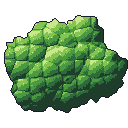
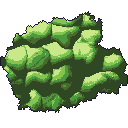
feat(art): trees closer to the reference - clumped lit crowns in the lime band, thick flared trunks, bark-brown dead tree, a soft shade under each crown
Claude-Session: https://claude.ai/code/session_01PpsERw8VWrE9zZzVHKNAoh

diff --git a/tools/src/art/trees.ts b/tools/src/art/trees.ts
@@ -21,8 +21,8 @@ export const CHARACTER_PX = 73;
 
 const GREEN = rampOf(['#15301f', '#1f3d2b', '#2e6b3b', '#4c9a3f', '#84c450', '#c8e88a']);
 const BARK = rampOf(['#1f1210', '#3f1e17', '#5e2e20', '#7f452a', '#a3633a', '#cc8e55']);
-/** Dead wood: the ink, the purple greys, and one pale step for the bleached side. */
-const DEAD = rampOf(['#1b1a2e', '#3a3554', '#3a3554', '#5d6177', '#5d6177', '#8f94a8']);
+/** Dead wood: the bark ramp itself, drawn dark (a bare tree is the oak's own wood without its leaves). */
+const DEAD = BARK;
 const PLUM = rampOf(['#241238', '#43204a', '#5b3373', '#7c4593', '#9a5bb0', '#c28bc9']);
 
 export interface TreeDraw {
@@ -82,14 +82,15 @@ function oak(frame: number): PNG {
   const W = 192;
   const H = 320;
   const png = surface(W, H);
+  // a thick, warm trunk that flares into four roots spreading over the ground, two boughs reaching into the crown
   drawTubes(png, [
-    ...trunk([[96, 316, 21], [96, 292, 18], [96, 250, 15], [97, 215, 13], [98, 190, 12]], [[62, 318, 4.5], [132, 318, 4.5]]),
-    { x0: 98, y0: 214, r0: 9, x1: 62, y1: 168, r1: 6 },
-    { x0: 98, y0: 210, r0: 9, x1: 136, y1: 170, r1: 6 },
-  ], { seed: 301, ramp: BARK, tone: -0.35, grain: 1.0 });
-  const box = { oy: 56, h: 188 };
-  const lobes = swayed(crownLobes(31, W, box.h, 96, 94, 70, 62, [[0.55, 8, 33], [1, 15, 29]], 40), box.h, frame, 2.5);
-  drawMass(png, { ox: 0, oy: box.oy, w: W, h: box.h, seed: 31, lobes, ramp: GREEN, clump: 20, shift: [frame * 3, frame * 2] });
+    ...trunk([[96, 316, 29], [96, 296, 25], [96, 262, 21], [97, 228, 19], [98, 196, 17]], [[26, 318, 6], [60, 319, 6.5], [132, 319, 6.5], [166, 318, 6]]),
+    { x0: 98, y0: 222, r0: 12, x1: 56, y1: 170, r1: 7 },
+    { x0: 98, y0: 218, r0: 12, x1: 142, y1: 168, r1: 7 },
+  ], { seed: 301, ramp: BARK, tone: 0.1, grain: 1.0 });
+  const box = { oy: 52, h: 180 };
+  const lobes = swayed(crownLobes(31, W, box.h, 96, 86, 80, 52, [[0.6, 9, 29], [1, 13, 25]], 38), box.h, frame, 2.5);
+  drawMass(png, { ox: 0, oy: box.oy, w: W, h: box.h, seed: 31, lobes, ramp: GREEN, clump: 34, tone: 0.85, shift: [frame * 3, frame * 2] });
   return finish(png);
 }
 
@@ -128,7 +129,7 @@ function deadTree(frame: number): PNG {
   add(96, 252, -0.04, 80, 21, 0, 1);
   // the roots grip the ground
   const roots: Tube[] = trunk([[96, 252, 21]], [[58, 254, 4], [134, 254, 4]]);
-  drawTubes(png, [...tubes, ...roots], { seed: 401, ramp: DEAD, tone: -0.8, grain: 1.2 });
+  drawTubes(png, [...tubes, ...roots], { seed: 401, ramp: DEAD, tone: -0.55, grain: 1.2 });
   return finish(png);
 }
 
@@ -136,10 +137,10 @@ function youngTree(): PNG {
   const W = 128;
   const H = 192;
   const png = surface(W, H);
-  drawTubes(png, trunk([[64, 190, 12], [64, 170, 10], [64, 140, 8], [65, 112, 7]], [[46, 191, 3.5], [82, 191, 3.5]]), { seed: 501, ramp: BARK, tone: -0.3, grain: 0.9 });
+  drawTubes(png, trunk([[64, 190, 19], [64, 172, 15], [64, 140, 12], [65, 112, 10]], [[28, 191, 4.5], [46, 192, 4.5], [82, 192, 4.5], [100, 191, 4.5]]), { seed: 501, ramp: BARK, tone: 0.1, grain: 0.9 });
   const box = { oy: 20, h: 124 };
-  const lobes = crownLobes(52, W, box.h, 64, 62, 38, 34, [[0.55, 6, 24], [1, 9, 20]], 28);
-  drawMass(png, { ox: 0, oy: box.oy, w: W, h: box.h, seed: 52, lobes, ramp: GREEN, clump: 15 });
+  const lobes = crownLobes(52, W, box.h, 64, 62, 42, 36, [[0.6, 6, 20], [1, 10, 18]], 26);
+  drawMass(png, { ox: 0, oy: box.oy, w: W, h: box.h, seed: 52, lobes, ramp: GREEN, clump: 26, tone: 1.3 });
   return finish(png);
 }
 
@@ -170,10 +171,10 @@ function fig(frame: number, fruit: boolean): PNG {
   const W = 128;
   const H = 256;
   const png = surface(W, H);
-  drawTubes(png, trunk([[63, 254, 10], [64, 232, 8], [66, 205, 6], [65, 180, 5]], [[42, 255, 3.5], [86, 255, 3.5]]), { seed: 701, ramp: BARK, tone: -0.2, grain: 0.9 });
+  drawTubes(png, trunk([[63, 254, 17], [64, 232, 13], [66, 205, 10], [65, 180, 8]], [[28, 255, 4.5], [44, 256, 4.5], [84, 256, 4.5], [100, 255, 4.5]]), { seed: 701, ramp: BARK, tone: 0.1, grain: 0.9 });
   const box = { oy: 16, h: 190 };
   const lobes = swayed(crownLobes(71, W, box.h, 64, 100, 38, 76, [[0.5, 7, 27], [1, 11, 23]], 32), box.h, frame, 1.6);
-  const mask = drawMass(png, { ox: 0, oy: box.oy, w: W, h: box.h, seed: 71, lobes, ramp: GREEN, clump: 22, tone: 0.15, glints: 0.6, shift: [frame * 3, frame * 2] });
+  const mask = drawMass(png, { ox: 0, oy: box.oy, w: W, h: box.h, seed: 71, lobes, ramp: GREEN, clump: 28, tone: 1.3, glints: 0.6, shift: [frame * 3, frame * 2] });
   if (fruit) {
     // figs: small plum drops on the crown's face, each with a lit upper left and a dark under edge
     let placed = 0;
@@ -222,7 +223,7 @@ function sheet(frames: readonly PNG[]): PNG {
 
 export const TREES: readonly TreeDraw[] = [
   { id: 'props/tree_oak', kit: 'core', w: 192, h: 320, frames: 2, ramps: ['green', 'bark'], what: 'an oak at 64 px, three characters tall: a bark trunk with roots under a wide crown of lit lobes and leaf clumps, swaying a pixel in its second frame', draw: oak },
-  { id: 'props/dead_tree', kit: 'core', w: 192, h: 256, frames: 2, ramps: ['grey', 'bark'], what: 'a dead tree at 64 px, two and a half characters tall: a twisting trunk forking into bare limbs, bark roots at its foot, the limbs swaying a pixel in its second frame', draw: deadTree },
+  { id: 'props/dead_tree', kit: 'core', w: 192, h: 256, frames: 2, ramps: ['bark'], what: 'a dead tree at 64 px, two and a half characters tall: a twisting trunk forking into bare limbs, bark roots at its foot, the limbs swaying a pixel in its second frame', draw: deadTree },
   { id: 'props/young_tree', kit: 'core', w: 128, h: 192, frames: 1, ramps: ['green', 'bark'], what: 'a young tree at 64 px, two characters tall: a slim bark trunk under a rounded crown of lit lobes', draw: youngTree },
   { id: 'props/sapling', kit: 'core', w: 64, h: 96, frames: 1, ramps: ['green', 'bark'], what: 'a sapling at 64 px, a person tall: a thin curved stem with a few small leaf clusters', declareScale: false, draw: sapling },
   { id: 'props/fig_bush', kit: 'ceosisrael', w: 128, h: 256, frames: 2, ramps: ['green', 'plum', 'bark'], what: 'the glade fig held as a tree, three characters tall: a slender trunk under a tall crown of big leaves with plum figs', draw: (f) => fig(f, true) },

diff --git a/tools/src/art/foliage.ts b/tools/src/art/foliage.ts
@@ -75,6 +75,8 @@ export interface MassOptions {
   tone?: number;
   /** How bright the glints on lit clumps are, 0 none. */
   glints?: number;
+  /** How hard the light and shade of each clump pull from the middle step: 1 as the trees, more for a mass that reads dark with lit tops. */
+  contrast?: number;
 }
 
 /**
@@ -89,8 +91,8 @@ export function drawMass(png: PNG, o: MassOptions): Uint8Array {
   const top = new Int16Array(w * h);
   for (let y = 0; y < h; y += 1) {
     for (let x = 0; x < w; x += 1) {
-      // a scalloped edge: the distance to a lobe is nudged by noise, so the silhouette is leafy, not a circle
-      const wob = (noise(seed + 5, x, y, 6) - 0.5) * 7;
+      // a ragged edge: the distance to a lobe is nudged by noise at three sizes, so the silhouette is leaf clumps with notches, not a circle
+      const wob = (noise(seed + 5, x, y, 9) - 0.5) * 9 + (noise(seed + 6, x, y, 4) - 0.5) * 5 + (hash3(seed + 10, x, y) - 0.5) * 2.2;
       let best = -1;
       let owner = 0;
       for (const [n, l] of lobes.entries()) {
@@ -115,6 +117,7 @@ export function drawMass(png: PNG, o: MassOptions): Uint8Array {
   const [sx, sy] = o.shift ?? [0, 0];
   const tone = o.tone ?? 0;
   const glints = o.glints ?? 1;
+  const contrast = o.contrast ?? 1;
   const clumpSize = o.clump;
   for (let y = 0; y < h; y += 1) {
     for (let x = 0; x < w; x += 1) {
@@ -125,18 +128,21 @@ export function drawMass(png: PNG, o: MassOptions): Uint8Array {
       const ly = (y - lobe.y) / lobe.r;
       const lz = Math.sqrt(Math.max(0, 1 - lx * lx - ly * ly));
       const dome = lx * LIGHT[0] + ly * LIGHT[1] + lz * LIGHT[2];
-      // the leaf clumps: the nearest of a jittered grid of centres, and the second nearest for the crevice between
-      const gx = Math.floor((x + sx) / clumpSize);
-      const gy = Math.floor((y + sy) / clumpSize);
+      // the leaf clumps: the nearest of a jittered grid of centres (looked up through a slow warp, so the seams between clumps wander),
+      // and the second nearest for the crevice between; each clump is its own small dome lit from the top, dark on its underside
+      const xw = x + sx + (noise(seed + 21, x, y, 11) - 0.5) * clumpSize * 0.45;
+      const yw = y + sy + (noise(seed + 22, x, y, 11) - 0.5) * clumpSize * 0.45;
+      const gx = Math.floor(xw / clumpSize);
+      const gy = Math.floor(yw / clumpSize);
       let near = 1e9;
       let second = 1e9;
       let cx = 0;
       let cy = 0;
       for (let oy = -1; oy <= 1; oy += 1) {
         for (let ox = -1; ox <= 1; ox += 1) {
-          const px0 = (gx + ox + 0.25 + hash3(seed + 7, gx + ox, gy + oy) * 0.5) * clumpSize - sx;
-          const py0 = (gy + oy + 0.25 + hash3(seed + 8, gx + ox, gy + oy) * 0.5) * clumpSize - sy;
-          const d = Math.hypot(x - px0, y - py0);
+          const px0 = (gx + ox + 0.2 + hash3(seed + 7, gx + ox, gy + oy) * 0.6) * clumpSize;
+          const py0 = (gy + oy + 0.2 + hash3(seed + 8, gx + ox, gy + oy) * 0.6) * clumpSize * 0.9;
+          const d = Math.hypot(xw - px0, (yw - py0) * 1.15);
           if (d < near) {
             second = near;
             near = d;
@@ -145,16 +151,18 @@ export function drawMass(png: PNG, o: MassOptions): Uint8Array {
           } else if (d < second) second = d;
         }
       }
-      const clump = (-(x - cx) * 0.55 - (y - cy) * 0.8) / (clumpSize * 0.5);
-      let v = 1.55 + tone + dome * 2.7 + clump * 1.0 - (y / h - 0.5) * 1.2 + (hash3(seed + 9, x, y) - 0.5) * 0.4;
+      const reach = clumpSize * 0.62;
+      const lit = (-(xw - cx) * 0.45 - (yw - cy) * 0.9) / reach;
+      const crown = Math.min(1, near / reach);
+      let v = 2.25 + tone + dome * 0.9 * contrast + lit * 2.6 * contrast - crown * crown * 1.1 * contrast - (y / h - 0.5) * 2.4 + (hash3(seed + 9, x, y) - 0.5) * 0.3;
       // a higher lobe up and to the left throws its shadow here
       const above = Math.max(at(x - 3, y - 3), at(x - 5, y - 2), at(x - 2, y - 5));
-      if (above > height[y * w + x]! + 0.12) v -= 1.3;
-      // the crevice between two clumps is a step darker
-      if (second - near < 1.8 && hash3(seed + 12, Math.floor(cx), Math.floor(cy)) > 0.3) v -= 1.0;
+      if (above > height[y * w + x]! + 0.12) v -= 0.8;
+      // the crevice between two clumps is darker
+      if (second - near < 2.2) v -= 1.0;
       let step = Math.max(1, Math.min(5, Math.round(v)));
       // a pale leaf glint on a lit clump
-      if (glints > 0 && step >= 4 && hash3(seed + 11, x, y) > 1 - 0.035 * glints) step = 5;
+      if (glints > 0 && step >= 4 && hash3(seed + 11, x, y) > 1 - 0.02 * glints) step = 5;
       // the lower right is the darkest green, one step in from the ink
       if (lowerRight(x, y)) step = Math.min(step, 1);
       else if (!px(x + 2, y + 2) && step > 1) step -= 1;

diff --git a/game/src/scenes/world.ts b/game/src/scenes/world.ts
@@ -63,6 +63,8 @@ import { ECHOES, WHISPERS, pickOf } from '../lore';
 import { TOO_DARK, type FireStage, feedTooLate, fireName, fireSpot, fireStage, holdsKindling, readable, woodToFeed } from '../fires';
 import { emptySlots, slotContent } from '../places';
 import { BANK_EDGE, EDGE_PX, PATH_EDGE, WOOD_EDGE, blendEdgeTile, needsBlend, type EdgeLook, type PathAt } from '../pathedge';
+import { shadeShare } from '../crownshade';
+import { CrownShades } from '../crownshade-layer';
 import { canopyGroups, hash, remapTone, swayOn, toneField, type Tone } from '../richground';
 import { gpuName } from '../device';
 import {LONGEST_FRAME_MS} from '../session';
@@ -313,6 +315,8 @@ export class WorldScene extends Phaser.Scene {
   private player!: Phaser.GameObjects.Sprite;
   /** the decided cast shadows, every caster's own alpha sheared away from the sun */
   private cast: CastLayer | undefined;
+  /** the soft shade under each tree's crown, kept under the tree as it grows or falls */
+  private crownShades: CrownShades | undefined;
   private readonly noCast = new Set<Phaser.GameObjects.GameObject>();
   /** the plain valley's night: one blue veil (the light layer draws the hour's shade when the light group is on) */
   private shade!: Phaser.GameObjects.Rectangle;
@@ -512,7 +516,15 @@ export class WorldScene extends Phaser.Scene {
     if (RICH.light) this.buildDapple();
     const firstKey = this.playerFrame('down').key;
     this.player = kitSprite(this, 0, 0, firstKey, standingFrame(this.b.sprites[firstKey], 1)).setOrigin(0.5, footOrigin(firstKey)).setVisible(false);
-    if (RICH.detail) this.buildCasters();
+    if (RICH.detail) {
+      this.buildCasters();
+      // every resource node (a tree is a node that grows and falls) and every tree the map stands, deduped
+      const trees = new Set<Phaser.GameObjects.Image | Phaser.GameObjects.Sprite>(this.nodes.values());
+      for (const obj of this.children.list) {
+        if ((obj instanceof Phaser.GameObjects.Image || obj instanceof Phaser.GameObjects.Sprite) && shadeShare(obj.texture.key) > 0) trees.add(obj);
+      }
+      this.crownShades = new CrownShades(this, trees);
+    }
     // the haze is one layer over the valley; addFilters cuts the player out of it, so the mist covers the
     // ground, the props and the other figures but never the player or what the player holds
     this.events.on(Phaser.Scenes.Events.POST_UPDATE, () => this.cutPlayer());
@@ -2308,6 +2320,7 @@ export class WorldScene extends Phaser.Scene {
     }
     this.walk(s, real);
     this.cast?.update(minuteOfDay(this.b, s.tick), this.cameras.main.worldView);
+    this.crownShades?.sync();
     this.light?.update(minuteOfDay(this.b, s.tick), this.cameras.main.worldView, this.player.visible ? { x: this.player.x, y: this.player.y - 8 } : undefined, time, RICH.motion);
     this.placeShaft(minuteOfDay(this.b, s.tick));
     const playerCaster = this.cast?.of(this.player);

diff --git a/tools/src/art/crowns.ts b/tools/src/art/crowns.ts
@@ -17,8 +17,11 @@ import { type Lobe, drawMass, fillPockets, hash3, inkEdge, rampOf, surface } fro
 import { ROOT } from './queue.js';
 
 export const CROWN = 128;
-/** The green ramp, dark to light (the shared `green` ramp's six steps). */
-export const GREEN = ['#15301f', '#1f3d2b', '#2e6b3b', '#4c9a3f', '#84c450', '#c8e88a'] as const;
+/**
+ * The forest's crown ramp, dark to light: the moss ramp's two olive darks for the shade a mass of crowns makes, then the green
+ * ramp's fresh greens and its pale lime for the lit clumps (the shared `moss` and `green` ramps; the owner's olive moss of 30.10).
+ */
+export const GREEN = ['#1b2a16', '#2f4722', '#4a6a2c', '#4c9a3f', '#84c450', '#c8e88a'] as const;
 
 /** The lobes of a variant: a ring of big ones round a middle one, each wholly inside the 128 box. */
 function lobesOf(seed: number): Lobe[] {
@@ -39,7 +42,7 @@ function lobesOf(seed: number): Lobe[] {
 /** One crown as RGBA pixels. */
 export function crownPng(seed: number): PNG {
   const png = surface(CROWN, CROWN);
-  drawMass(png, { ox: 0, oy: 0, w: CROWN, h: CROWN, seed, lobes: lobesOf(seed), ramp: rampOf(GREEN), clump: 15 });
+  drawMass(png, { ox: 0, oy: 0, w: CROWN, h: CROWN, seed, lobes: lobesOf(seed), ramp: rampOf(GREEN), clump: 26, tone: 0.1, glints: 1, contrast: 1.8 });
   fillPockets(png, rampOf(GREEN)[1]!);
   inkEdge(png);
   return png;
@@ -67,10 +70,10 @@ export function writeCrowns(root = ROOT, today = new Date().toISOString().slice(
     if (own < 0) {
       const lead = before === '' || before.endsWith('\n') ? '' : '\n';
       number = lines.length + 1;
-      const line = { sprite: id, name, spec: SPEC, drawer: 'script', ref: id, what: 'a forest crown at 64 px: rounded lobes of leaf clumps, lit from the top left', ramps: ['green'], picked: `script, ${today}` };
+      const line = { sprite: id, name, spec: SPEC, drawer: 'script', ref: id, what: 'a forest crown at 64 px: rounded lobes of leaf clumps, lit from the top left', ramps: ['green', 'moss'], picked: `script, ${today}` };
       appendFileSync(manifest, `${lead}${JSON.stringify(line)}\n`);
     }
-    kit = withSprite(kit, id, { file: `${id}.png`, w: CROWN, h: CROWN, density: 4, ramps: ['green'], source: { spec: SPEC, manifest: `tools/kit-gen/rich-wave.manifest.jsonl:${number}` } });
+    kit = withSprite(kit, id, { file: `${id}.png`, w: CROWN, h: CROWN, density: 4, ramps: ['green', 'moss'], source: { spec: SPEC, manifest: `tools/kit-gen/rich-wave.manifest.jsonl:${number}` } });
     wrote.push(id);
   });
   writeFileSync(kitPath, kit);

diff --git a/game/src/crownshade.ts b/game/src/crownshade.ts
@@ -1,0 +1,48 @@
+/**
+ * The shade under a tree's crown (rich wave 3c): a soft ellipse on the grass round the trunk's foot, the dark a real crown
+ * keeps under it at noon (the owner's reference frames show it under every oak). It is the crown's ambient shade, not the cast
+ * shadow (cast.ts): the cast shadow falls away from the sun, this one lies under the tree whatever the hour. A sprite's own
+ * pixels cannot carry it (the kit holds no soft alpha, check.ts), so the scene lays one image under each tree and follows the
+ * tree's state: a felled oak (its stump) and a sapling give none, a young tree gives a small one.
+ */
+
+/** The sprite names whose crown shades the ground, and how wide the shade is as a share of the sprite's drawn width. */
+const SHADED: ReadonlyMap<string, number> = new Map([
+  ['tree_oak', 0.78],
+  ['young_tree', 0.7],
+  ['fig_bush', 0.62],
+  ['fig_bush_empty', 0.62],
+]);
+
+export const SHADE_KEY = 'fx-crownshade';
+/** The shade's darkness at its heart, 0 to 1, before the hour's own light (the light layer sits over it). */
+export const SHADE_ALPHA = 0.5;
+/** Below every standing thing and the cast layers (2.5), above the ground and the flat props (2). */
+export const SHADE_DEPTH = 2.4;
+
+/** The share of the sprite's width the crown shade covers, or 0 for a texture that gives none. */
+export function shadeShare(textureKey: string): number {
+  return SHADED.get(textureKey.split('/').pop() ?? textureKey) ?? 0;
+}
+
+/** The shade's size for a tree drawn `width` wide (any unit): an ellipse under a third as tall as it is wide, its heart a little below the foot row (a tree's roots hide the half behind them, so the half in front is what shows). */
+export function shadeBox(width: number, share: number): { w: number; h: number; lift: number } {
+  const w = width * share;
+  const h = w * 0.3;
+  return { w, h, lift: -h * 0.2 };
+}
+
+/** The ellipse's pixels, RGBA: the ink colour, alpha falling from the heart to the rim in whole steps (the world is pixel art, no smooth gradient). */
+export function shadePixels(w: number, h: number): Uint8ClampedArray {
+  const out = new Uint8ClampedArray(w * h * 4);
+  const steps = 5;
+  for (let y = 0; y < h; y += 1) {
+    for (let x = 0; x < w; x += 1) {
+      const d = Math.hypot((x + 0.5 - w / 2) / (w / 2), (y + 0.5 - h / 2) / (h / 2));
+      if (d >= 1) continue;
+      const a = Math.ceil((1 - d) ** 0.75 * steps) / steps;
+      out.set([0x1b, 0x1a, 0x2e, Math.round(a * 255)], (y * w + x) * 4);
+    }
+  }
+  return out;
+}

diff --git a/game/src/crownshade-layer.ts b/game/src/crownshade-layer.ts
@@ -1,0 +1,54 @@
+import * as Phaser from 'phaser';
+
+import { SHADE_ALPHA, SHADE_DEPTH, SHADE_KEY, shadeBox, shadePixels, shadeShare } from './crownshade';
+
+function ensureTexture(scene: Phaser.Scene): void {
+  if (scene.textures.exists(SHADE_KEY)) return;
+  const W = 96;
+  const H = 20;
+  const tex = scene.textures.createCanvas(SHADE_KEY, W, H);
+  if (!tex) return;
+  const ctx = tex.getContext();
+  const img = ctx.createImageData(W, H);
+  img.data.set(shadePixels(W, H));
+  ctx.putImageData(img, 0, 0);
+  tex.refresh();
+}
+
+type Tree = Phaser.GameObjects.Image | Phaser.GameObjects.Sprite;
+
+/** One shade per tree the scene draws, kept under it as the tree grows, falls or hides. */
+export class CrownShades {
+  private readonly items: { tree: Tree; shade: Phaser.GameObjects.Image }[] = [];
+  private readonly shares = new Map<string, number>();
+
+  constructor(scene: Phaser.Scene, trees: Iterable<Tree>) {
+    ensureTexture(scene);
+    for (const tree of trees) {
+      const shade = scene.add.image(tree.x, tree.y, SHADE_KEY).setOrigin(0.5).setDepth(SHADE_DEPTH).setVisible(false);
+      this.items.push({ tree, shade });
+    }
+  }
+
+  /** Places each shade under its tree for the texture the tree shows now. */
+  sync(): void {
+    for (const { tree, shade } of this.items) {
+      const key = tree.texture.key;
+      let share = this.shares.get(key);
+      if (share === undefined) {
+        share = shadeShare(key);
+        this.shares.set(key, share);
+      }
+      if (share === 0 || !tree.visible || tree.alpha < 0.05) {
+        shade.setVisible(false);
+        continue;
+      }
+      const box = shadeBox(tree.displayWidth, share);
+      shade
+        .setPosition(tree.x, tree.y - box.lift)
+        .setDisplaySize(box.w, box.h)
+        .setAlpha(SHADE_ALPHA * tree.alpha)
+        .setVisible(true);
+    }
+  }
+}

diff --git a/game/test/crownshade.test.ts b/game/test/crownshade.test.ts
@@ -1,0 +1,36 @@
+import { describe, expect, test } from 'vitest';
+
+import { SHADE_DEPTH, shadeBox, shadePixels, shadeShare } from '../src/crownshade';
+
+describe('the shade under a crown', () => {
+  test('trees give one, stumps, saplings and the dead tree do not', () => {
+    for (const key of ['core/base-kit:props/tree_oak', 'props/young_tree', 'ceosisrael/kit:props/fig_bush', 'props/fig_bush_empty']) expect(shadeShare(key)).toBeGreaterThan(0);
+    for (const key of ['props/stump', 'props/sapling', 'props/dead_tree', 'chars/elder']) expect(shadeShare(key)).toBe(0);
+  });
+
+  test('is a flat ellipse, narrower than the crown, its heart a little below the foot row', () => {
+    const box = shadeBox(192, shadeShare('props/tree_oak'));
+    expect(box.w).toBeLessThan(192);
+    expect(box.w / box.h).toBeGreaterThan(3);
+    expect(box.lift).toBeLessThan(0);
+  });
+
+  test('falls from the heart to the rim in whole steps and is clear outside the ellipse', () => {
+    const w = 96;
+    const h = 20;
+    const px = shadePixels(w, h);
+    const alpha = (x: number, y: number): number => px[(y * w + x) * 4 + 3]!;
+    expect(alpha(w / 2, h / 2)).toBe(255);
+    expect(alpha(0, 0)).toBe(0);
+    expect(alpha(w - 1, h - 1)).toBe(0);
+    expect(alpha(w / 2, h / 2)).toBeGreaterThan(alpha(w / 2 - 30, h / 2));
+    const levels = new Set<number>();
+    for (let i = 3; i < px.length; i += 4) if (px[i]! > 0) levels.add(px[i]!);
+    expect(levels.size).toBeLessThanOrEqual(5);
+  });
+
+  test('lies under the standing layers and over the ground', () => {
+    expect(SHADE_DEPTH).toBeGreaterThan(2);
+    expect(SHADE_DEPTH).toBeLessThan(2.5);
+  });
+});
